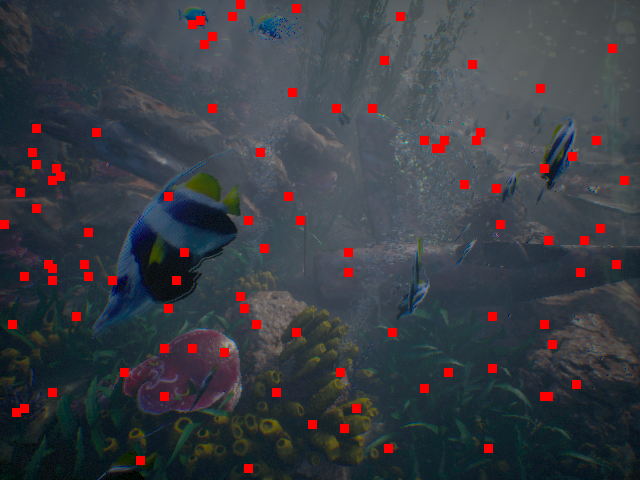
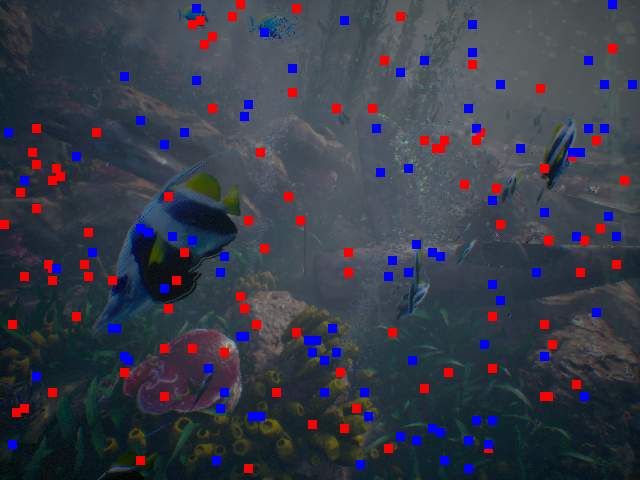
ransac initial result

diff --git a/patch_folder/drawpatch.py b/patch_folder/drawpatch.py
@@ -19,10 +19,11 @@ if __name__ == '__main__':
     patch2 = torch.load('patch_folder/2.pt')
     patch3 = torch.load('patch_folder/3.pt')
     patch4 = torch.load('patch_folder/4.pt')
+    original_patch = torch.load('patch_folder/original_patches.pt')
 
     best_patch = torch.load('patch_folder/best_patches.pt')
 
-    print(best_patch.size())
+    print(original_patch.size())
     print(best_patch[0, 0, :, 1, 1])
 
     with Image.open("patch_folder/000104_left.png") as im:
@@ -42,5 +43,12 @@ if __name__ == '__main__':
             # v4 = patch0[0, i, 0:2, 2, 2]
             # draw.rectangle((v1[0], v1[1], v4[0], v4[1]), fill="blue")
             # # print(v1, v2, v3, v4)
+        for i in range(96):
+            v1 = original_patch[0, i, 0:2, 0, 0]*4
+            v2 = original_patch[0, i, 0:2, 0, 2]*4
+            v3 = original_patch[0, i, 0:2, 2, 0]*4
+            v4 = original_patch[0, i, 0:2, 2, 2]*4
+            # print(v1, v2, v3, v4)
+            draw.rectangle((v1[0], v1[1], v4[0], v4[1]), fill="blue")
         # write to stdout
         im.save('patch_folder/image_with_patches.png')

diff --git a/dpvo/dpvo.py b/dpvo/dpvo.py
@@ -296,7 +296,7 @@ class DPVO:
             self.points_[:len(points)] = points[:]
         
         if self.counter == 104:
-            torch.save(self.patches, "original_patches.pt")
+            torch.save(self.patches.view(self.patches_.shape), "original_patches.pt")
                 
     def __edges_all(self):
         return flatmeshgrid(
